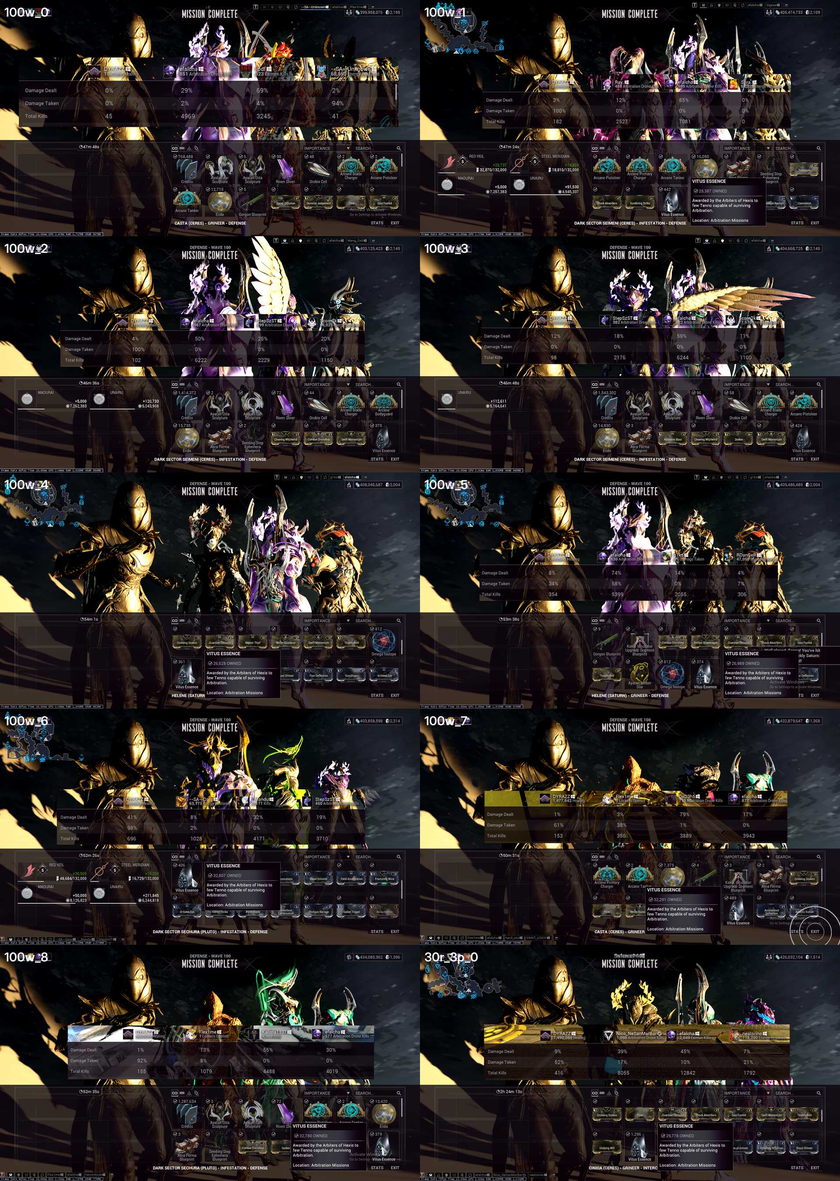
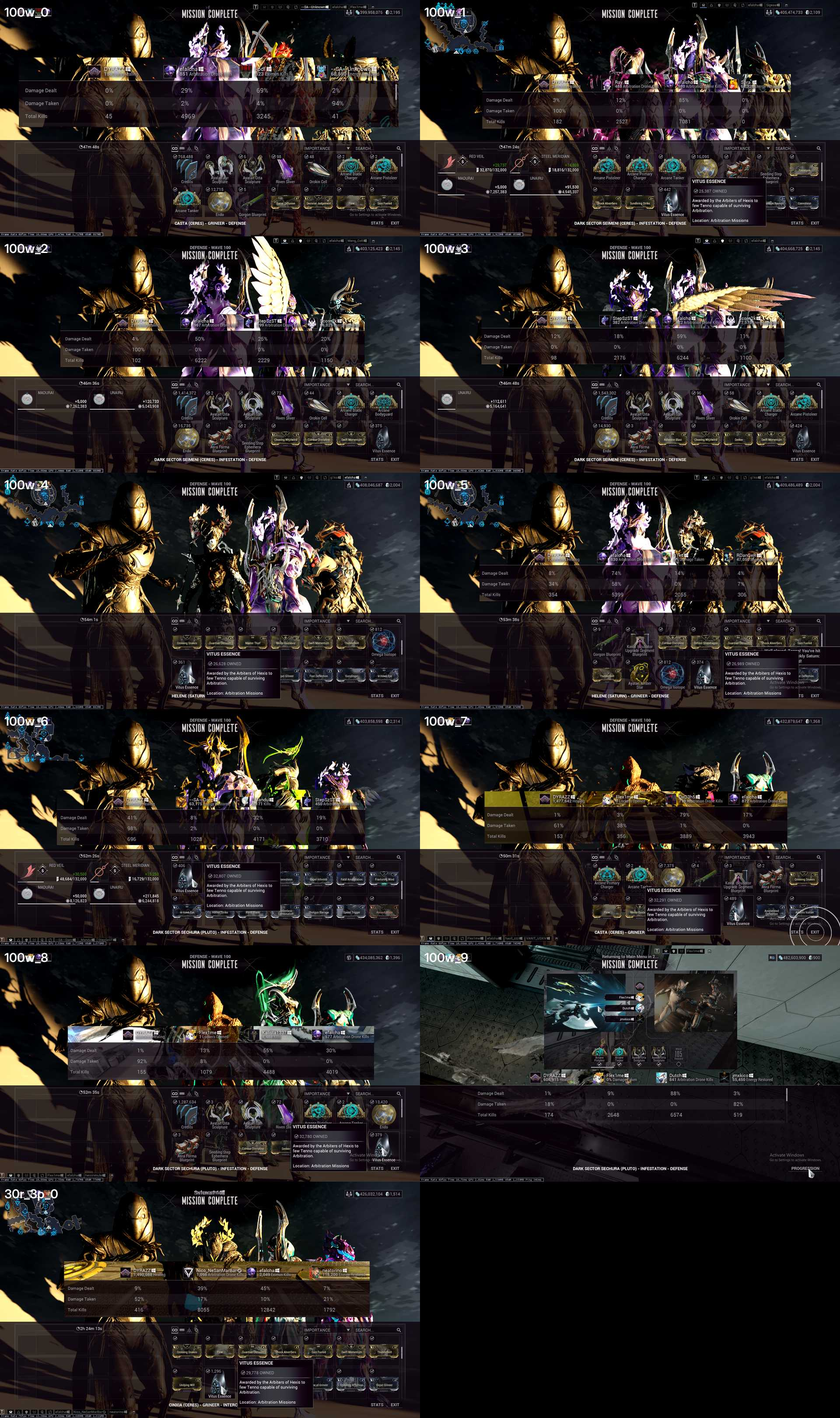
Update runs

diff --git a/README.md b/README.md
@@ -1,19 +1,21 @@
-|       |   chroma |   saryn |   wisp |   mirage |   volt |   octavia |   total |
-|:------|---------:|--------:|-------:|---------:|-------:|----------:|--------:|
-| 100w  |       13 |       5 |      9 |        5 |      0 |         0 |      32 |
-| 200w  |        0 |       0 |      0 |        0 |      0 |         0 |       0 |
-| 10r   |        1 |       4 |      0 |        0 |      0 |         0 |       5 |
-| 20r   |        0 |       1 |      0 |        0 |      0 |         0 |       1 |
-| 30r   |        0 |       1 |      1 |        2 |      1 |         0 |       5 |
-| total |       14 |      14 |     12 |       11 |      3 |         0 |      54 |
+|       |   mirage |   saryn |   chroma |   wisp |   volt |   octavia |   total |
+|:------|---------:|--------:|---------:|-------:|-------:|----------:|--------:|
+| 100w  |        6 |      10 |       13 |     10 |      0 |         0 |      39 |
+| 200w  |        0 |       0 |        0 |      0 |      0 |         0 |       0 |
+| 10r   |        0 |       4 |        1 |      0 |      0 |         0 |       5 |
+| 20r   |        0 |       3 |        0 |      0 |      0 |         0 |       3 |
+| 30r   |        2 |       1 |        0 |      1 |      1 |         0 |       5 |
+| 40r   |        1 |       0 |        0 |      0 |      0 |         0 |       1 |
+| 50r   |        2 |       0 |        0 |      0 |      0 |         0 |       2 |
+| total |       26 |      23 |       14 |     13 |      3 |         0 |      79 |
 
 |         | Average Kill per 100w   | Average Kill per 10r   |
 |:--------|:------------------------|:-----------------------|
 | chroma  | 507                     | 624                    |
-| mirage  | 2312                    | 2793                   |
+| mirage  | 2450                    | 3230                   |
 | octavia | -                       | -                      |
-| saryn   | 3389                    | 4582                   |
+| saryn   | 3633                    | 4262                   |
 | volt    | -                       | 1570                   |
-| wisp    | 223                     | 139                    |
+| wisp    | 218                     | 139                    |
 
-Updated 2024-08-11 20:18 UTC+0
+Updated 2024-08-19 12:52 UTC+0
